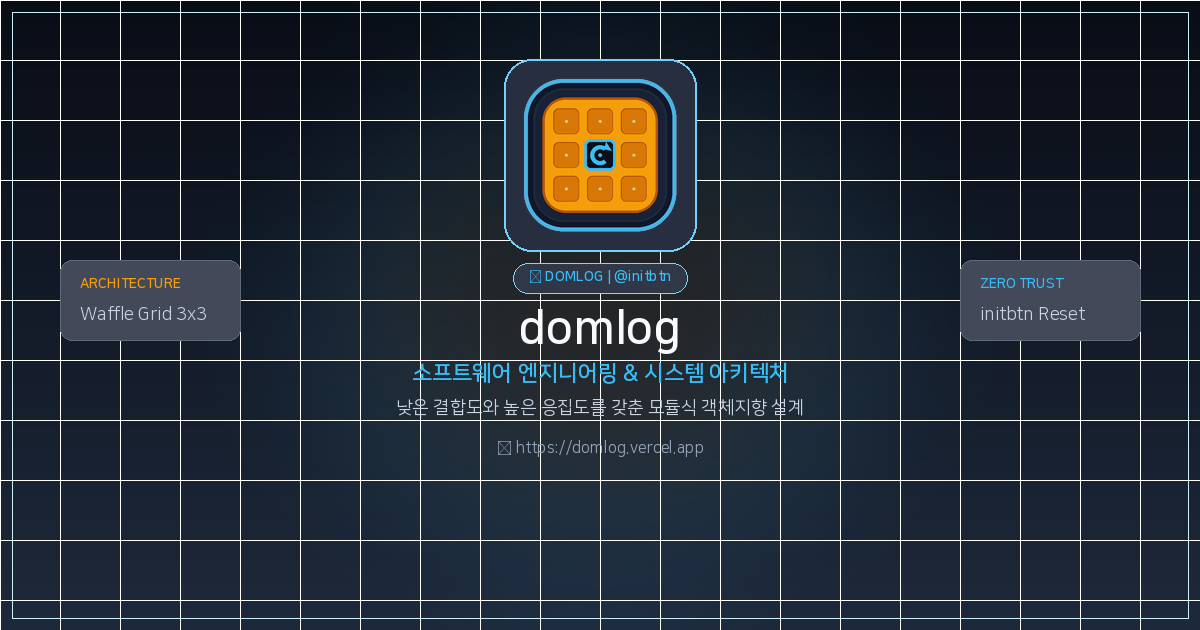
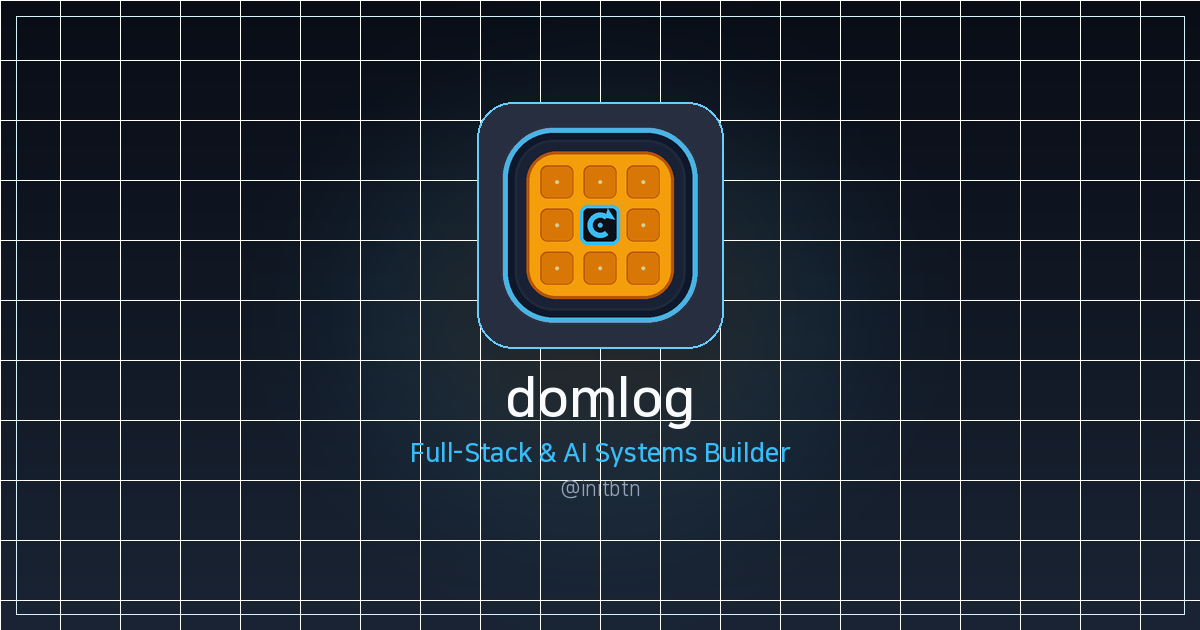
feat: 미니멀 프로필 카드 썸네일 및 Full-Stack & AI Systems Builder 타이틀 적용

diff --git a/src/app/layout.tsx b/src/app/layout.tsx
@@ -18,11 +18,11 @@ const geistMono = Geist_Mono({
 export const metadata: Metadata = {
   metadataBase: new URL('https://domlog.vercel.app'),
   title: {
-    default: "domlog | 소프트웨어 엔지니어링 & 시스템 아키텍처 저널",
+    default: "domlog | Full-Stack & AI Systems Builder",
     template: "%s | domlog",
   },
-  description: "클라이언트 제로 트러스트 WAS 게이트웨이, 10Hz 해양 GIS 항법 엔진, sLM RAG 파이프라인 등 실전 문제 해결과 아키텍처 심층 분석 저널",
-  keywords: ["Software Engineering", "Next.js", "Architecture", "Zero Trust", "GIS", "RAG", "Vue.js", "AI Agent", "domlog", "waffle", "initbtn"],
+  description: "웹 풀스택 엔지니어링, 실시간 시스템, AI RAG 에이전트를 만드는 initbtn의 기술 블로그",
+  keywords: ["Software Engineering", "Full-Stack", "AI Builder", "Next.js", "Architecture", "Zero Trust", "GIS", "RAG", "domlog", "initbtn"],
   authors: [{ name: "initbtn", url: "https://github.com/initbtn" }],
   creator: "initbtn",
   alternates: {
@@ -40,21 +40,21 @@ export const metadata: Metadata = {
     locale: 'ko_KR',
     url: 'https://domlog.vercel.app',
     siteName: 'domlog',
-    title: 'domlog | 소프트웨어 엔지니어링 & 시스템 아키텍처 저널',
-    description: '낮은 결합도와 높은 응집도를 갖춘 모듈식 객체지향 설계, WAS 보안 게이트웨이, 해양 GIS 10Hz 분석',
+    title: 'domlog | Full-Stack & AI Systems Builder',
+    description: '웹 풀스택 엔지니어링, 실시간 시스템, AI RAG 에이전트를 만드는 initbtn의 기술 블로그',
     images: [
       {
         url: 'https://domlog.vercel.app/og-image.png',
         width: 1200,
         height: 630,
-        alt: 'domlog - Waffle Grid (initbtn) Engineering Journal',
+        alt: 'domlog - Full-Stack & AI Systems Builder (@initbtn)',
       },
     ],
   },
   twitter: {
     card: 'summary_large_image',
-    title: 'domlog | 소프트웨어 엔지니어링 & 시스템 아키텍처 저널',
-    description: '낮은 결합도와 높은 응집도를 갖춘 모듈식 객체지향 설계, WAS 보안 게이트웨이, 해양 GIS 10Hz 분석',
+    title: 'domlog | Full-Stack & AI Systems Builder',
+    description: '웹 풀스택 엔지니어링, 실시간 시스템, AI RAG 에이전트를 만드는 initbtn의 기술 블로그',
     images: ['https://domlog.vercel.app/og-image.png'],
     creator: '@initbtn',
   },
@@ -74,6 +74,7 @@ export default function RootLayout({
     author: {
       '@type': 'Person',
       name: 'initbtn',
+      jobTitle: 'Full-Stack & AI Systems Builder',
       url: 'https://github.com/initbtn',
       sameAs: [
         'https://github.com/initbtn',
@@ -94,19 +95,12 @@ export default function RootLayout({
         />
       </head>
       <body className="min-h-full flex flex-col bg-[#090d16] text-slate-100 bg-grid-pattern relative">
-        {/* Top ambient radial light */}
         <div className="absolute top-0 left-0 right-0 h-96 bg-radial-glow pointer-events-none" />
-        
         <Header />
-        
-        {/* Main content with pb-24 on mobile to accommodate bottom tab bar */}
         <main className="flex-1 max-w-4xl w-full mx-auto px-5 sm:px-6 py-8 sm:py-10 pb-28 md:pb-12 relative z-10">
           {children}
         </main>
-        
         <Footer />
-        
-        {/* Mobile Bottom Navigation Bar (md:hidden) */}
         <MobileBottomNav />
       </body>
     </html>

diff --git a/src/app/page.tsx b/src/app/page.tsx
@@ -27,15 +27,15 @@ export default function HomePage() {
             </div>
 
             <h1 className="text-3xl sm:text-4xl md:text-5xl font-extrabold tracking-tight text-white leading-tight">
-              개발 이야기 & <br />
+              Full-Stack & <br />
               <span className="text-transparent bg-clip-text bg-gradient-to-r from-sky-400 via-teal-300 to-amber-300">
-                트러블슈팅 기록
+                AI Systems Builder
               </span>
             </h1>
 
             <p className="text-sm sm:text-base text-slate-300/90 leading-relaxed">
-              견고하고 신뢰할 수 있는 웹 시스템을 만듭니다.
-              새로운 기술을 탐색하고 복잡한 버그를 파고들어 단순하게 풀어내는 과정을 기록합니다.
+              견고한 웹 풀스택 시스템부터 10Hz 실시간 데이터 파이프라인, AI RAG 에이전트까지.
+              문제를 시스템으로 해결하는 과정과 트러블슈팅을 기록합니다.
             </p>
 
             <div className="flex flex-wrap items-center gap-4 pt-2">
@@ -56,21 +56,21 @@ export default function HomePage() {
             </div>
           </div>
 
-          {/* Waffle Key Mascot Card */}
+          {/* Waffle Keycap Mascot Card */}
           <div className="shrink-0 mx-auto md:mx-0">
             <div className="relative group">
               <div className="absolute -inset-1 rounded-3xl bg-gradient-to-r from-sky-500 to-amber-400 opacity-30 blur-md group-hover:opacity-60 transition duration-500" />
               <div className="relative w-44 h-44 sm:w-48 sm:h-48 rounded-2xl bg-slate-900 border-2 border-slate-700/80 p-3 flex flex-col items-center justify-between shadow-2xl">
                 <Image
                   src="/avatar.png"
-                  alt="Waffle Key Mascot"
+                  alt="Waffle Keycap Mascot"
                   width={140}
                   height={140}
                   className="rounded-xl object-contain drop-shadow-md group-hover:scale-105 transition-transform"
                   priority
                 />
-                <div className="w-full text-center py-0.5 rounded bg-slate-950/80 border border-slate-800 text-[10px] font-mono text-amber-400 font-bold">
-                  WAFFLE & INITBTN
+                <div className="w-full text-center py-0.5 rounded bg-slate-950/80 border border-slate-800 text-[10px] font-mono text-sky-400 font-bold">
+                  INITBTN (⟲)
                 </div>
               </div>
             </div>

diff --git a/scripts/generate-assets.py b/scripts/generate-assets.py
@@ -107,12 +107,10 @@ def draw_waffle_keycap_avatar(size=512):
         width=int(size * 0.016)
     )
     
-    # Sharp Glowing Cyan Reset Loop (⟲)
     arc_radius = int(center_hole_size * 0.32)
     arc_box = [cx - arc_radius, cy - arc_radius, cx + arc_radius, cy + arc_radius]
     draw.arc(arc_box, start=50, end=310, fill=(56, 189, 248, 255), width=int(size * 0.024))
     
-    # Crisp Arrow Head
     arrow_size = int(size * 0.032)
     arrow_tip_x = cx + int(arc_radius * math.cos(math.radians(50)))
     arrow_tip_y = cy - int(arc_radius * math.sin(math.radians(50)))
@@ -127,18 +125,15 @@ def draw_waffle_keycap_avatar(size=512):
     return img
 
 def generate_icons(avatar):
-    # 1. Avatar (512x512)
     avatar_path = os.path.join(PUBLIC_DIR, "avatar.png")
     avatar.save(avatar_path, "PNG", optimize=True)
     print(f"Generated {avatar_path} (512x512)")
     
-    # 2. apple-touch-icon.png (180x180)
     apple_icon = avatar.resize((180, 180), Image.Resampling.LANCZOS)
     apple_path = os.path.join(PUBLIC_DIR, "apple-touch-icon.png")
     apple_icon.save(apple_path, "PNG", optimize=True)
     print(f"Generated {apple_path} (180x180)")
     
-    # 3. favicon.ico (multi-size 16, 32, 48) in BOTH public/ and src/app/
     ico_path = os.path.join(PUBLIC_DIR, "favicon.ico")
     avatar.save(ico_path, format="ICO", sizes=[(16, 16), (32, 32), (48, 48)])
     
@@ -148,9 +143,14 @@ def generate_icons(avatar):
 
 def generate_og_image(avatar):
     """
-    Generate OG Image optimized for KakaoTalk half/square crop AND Twitter/Slack 1200x630.
-    KakaoTalk half scrap crops the CENTER 630x630 or 800x400 area.
-    Therefore, all primary content (Avatar, Brand, Title) is strictly centered in the inner safe zone!
+    Minimalist Profile Card Thumbnail:
+    - Pure, elegant, distraction-free profile card layout.
+    - No walls of text or bullet points (cleared as requested).
+    - Features ONLY:
+        * Centered Waffle Keycap avatar (large & crisp)
+        * 'domlog' & '@initbtn'
+        * Title: 'Full-Stack & AI Systems Builder'
+    - 100% KakaoTalk Half/Square crop and wide 16:9 safe.
     """
     width = 1200
     height = 630
@@ -158,99 +158,72 @@ def generate_og_image(avatar):
     img = Image.new("RGBA", (width, height), (9, 13, 22, 255))
     draw = ImageDraw.Draw(img)
     
+    # Subtle dark background gradient
     for y in range(height):
         ratio = y / height
-        r = int(9 + (30 - 9) * ratio)
-        g = int(13 + (41 - 13) * ratio)
-        b = int(22 + (59 - 22) * ratio)
+        r = int(9 + (26 - 9) * ratio)
+        g = int(13 + (36 - 13) * ratio)
+        b = int(22 + (52 - 22) * ratio)
         draw.line([(0, y), (width, y)], fill=(r, g, b, 255))
         
+    # Ambient radial light around the center
+    cx = 600
+    cy = 315
     glow_canvas = Image.new("RGBA", (width, height), (0, 0, 0, 0))
     glow_draw = ImageDraw.Draw(glow_canvas)
-    glow_draw.ellipse([(cx := 600) - 350, (cy := 315) - 300, cx + 350, cy + 300], fill=(56, 189, 248, 30))
-    glow_draw.ellipse([cx - 200, cy - 150, cx + 200, cy + 150], fill=(245, 158, 11, 20))
+    glow_draw.ellipse([cx - 300, cy - 260, cx + 300, cy + 260], fill=(56, 189, 248, 30))
+    glow_draw.ellipse([cx - 150, cy - 120, cx + 150, cy + 120], fill=(245, 158, 11, 22))
     glow_canvas = glow_canvas.filter(ImageFilter.GaussianBlur(80))
     img = Image.alpha_composite(img, glow_canvas)
     draw = ImageDraw.Draw(img)
     
-    # Engineering Grid Lines
-    grid_color = (255, 255, 255, 12)
+    # Subtle grid lines
+    grid_color = (255, 255, 255, 10)
     for x in range(0, width, 60):
         draw.line([(x, 0), (x, height)], fill=grid_color, width=1)
     for y in range(0, height, 60):
         draw.line([(0, y), (width, y)], fill=grid_color, width=1)
         
-    # Outer Border
-    draw.rectangle([(12, 12), (width - 12, height - 12)], outline=(56, 189, 248, 60), width=1)
+    # Outer border
+    draw.rectangle([(16, 16), (width - 16, height - 16)], outline=(56, 189, 248, 50), width=1)
     
-    # ── CENTERED SAFE ZONE LAYOUT (KakaoTalk 630x630 Square-Safe) ──
-    # Kakao center 630x630 is x: [285, 915], y: [0, 630]
-    
-    # 1. Centered Mascot Keycap Card
-    avatar_size = 180
+    # ── Centered Pure Profile Card ──
+    # 1. Large Crisp Avatar
+    avatar_size = 230
     avatar_resized = avatar.resize((avatar_size, avatar_size), Image.Resampling.LANCZOS)
     avatar_x = cx - avatar_size // 2
-    avatar_y = 65
+    avatar_y = 110
     
     # Frame container behind avatar
     draw.rounded_rectangle(
-        [avatar_x - 6, avatar_y - 6, avatar_x + avatar_size + 6, avatar_y + avatar_size + 6],
-        radius=28,
+        [avatar_x - 8, avatar_y - 8, avatar_x + avatar_size + 8, avatar_y + avatar_size + 8],
+        radius=36,
         fill=(15, 23, 42, 230),
-        outline=(56, 189, 248, 180),
+        outline=(56, 189, 248, 190),
         width=2
     )
     img.paste(avatar_resized, (avatar_x, avatar_y), avatar_resized)
     
-    # 2. Category / Identity Pill (Centered)
-    pill_font = get_font(FONT_BOLD, 14)
-    pill_text = "⚡ DOMLOG | @initbtn"
-    pbbox = draw.textbbox((0, 0), pill_text, font=pill_font)
-    pw = (pbbox[2] - pbbox[0]) + 32
-    px = cx - pw // 2
-    py = avatar_y + avatar_size + 18
-    draw.rounded_rectangle([px, py, px + pw, py + 30], radius=15, fill=(15, 23, 42, 220), outline=(56, 189, 248, 160), width=1)
-    draw.text((px + 16, py + 6), pill_text, font=pill_font, fill=(56, 189, 248, 255))
-    
-    # 3. Main Brand Title (Centered)
-    title_font = get_font(FONT_BOLD, 46)
+    # 2. Main Title: domlog
+    title_font = get_font(FONT_BOLD, 54)
     title_text = "domlog"
     tbbox = draw.textbbox((0, 0), title_text, font=title_font)
     tw = tbbox[2] - tbbox[0]
-    draw.text((cx - tw // 2, py + 40), title_text, font=title_font, fill=(248, 250, 252, 255))
+    draw.text((cx - tw // 2, avatar_y + avatar_size + 30), title_text, font=title_font, fill=(248, 250, 252, 255))
     
-    # 4. Subtitle / Domain (Centered)
-    sub_font = get_font(FONT_BOLD, 22)
-    sub_text = "소프트웨어 엔지니어링 & 시스템 아키텍처"
-    sbbox = draw.textbbox((0, 0), sub_text, font=sub_font)
-    sw = sbbox[2] - sbbox[0]
-    draw.text((cx - sw // 2, py + 98), sub_text, font=sub_font, fill=(56, 189, 248, 255))
+    # 3. Modern Role Headline: Full-Stack & AI Systems Builder
+    role_font = get_font(FONT_BOLD, 26)
+    role_text = "Full-Stack & AI Systems Builder"
+    rbbox = draw.textbbox((0, 0), role_text, font=role_font)
+    rw = rbbox[2] - rbbox[0]
+    draw.text((cx - rw // 2, avatar_y + avatar_size + 98), role_text, font=role_font, fill=(56, 189, 248, 255))
     
-    # 5. Core Value Statement (Centered)
-    desc_font = get_font(FONT_REGULAR, 18)
-    desc_text = "낮은 결합도와 높은 응집도를 갖춘 모듈식 객체지향 설계"
-    dbbox = draw.textbbox((0, 0), desc_text, font=desc_font)
-    dw = dbbox[2] - dbbox[0]
-    draw.text((cx - dw // 2, py + 134), desc_text, font=desc_font, fill=(203, 213, 225, 255))
-    
-    # 6. Bottom Domain (Centered)
-    url_font = get_font(FONT_REGULAR, 16)
-    url_text = "🔗 https://domlog.vercel.app"
-    ubbox = draw.textbbox((0, 0), url_text, font=url_font)
-    uw = ubbox[2] - ubbox[0]
-    draw.text((cx - uw // 2, py + 176), url_text, font=url_font, fill=(148, 163, 184, 255))
-    
-    # Left & Right Wing Accents (Visible in Full 16:9 on Desktop/Twitter, safely cropped in Kakao)
-    left_badge_y = 260
-    draw.rounded_rectangle([60, left_badge_y, 240, left_badge_y + 80], radius=12, fill=(15, 23, 42, 200), outline=(51, 65, 85, 200), width=1)
-    b_font = get_font(FONT_BOLD, 14)
-    draw.text((80, left_badge_y + 16), "ARCHITECTURE", font=b_font, fill=(245, 158, 11, 255))
-    draw.text((80, left_badge_y + 44), "Waffle Grid 3x3", font=desc_font, fill=(203, 213, 225, 255))
-    
-    right_badge_y = 260
-    draw.rounded_rectangle([width - 240, right_badge_y, width - 60, right_badge_y + 80], radius=12, fill=(15, 23, 42, 200), outline=(51, 65, 85, 200), width=1)
-    draw.text((width - 220, right_badge_y + 16), "ZERO TRUST", font=b_font, fill=(56, 189, 248, 255))
-    draw.text((width - 220, right_badge_y + 44), "initbtn Reset", font=desc_font, fill=(203, 213, 225, 255))
+    # 4. Identity Tag: @initbtn
+    tag_font = get_font(FONT_REGULAR, 20)
+    tag_text = "@initbtn"
+    gbbox = draw.textbbox((0, 0), tag_text, font=tag_font)
+    gw = gbbox[2] - gbbox[0]
+    draw.text((cx - gw // 2, avatar_y + avatar_size + 138), tag_text, font=tag_font, fill=(148, 163, 184, 255))
 
     out_path = os.path.join(PUBLIC_DIR, "og-image.png")
     img.save(out_path, "PNG", optimize=True)
